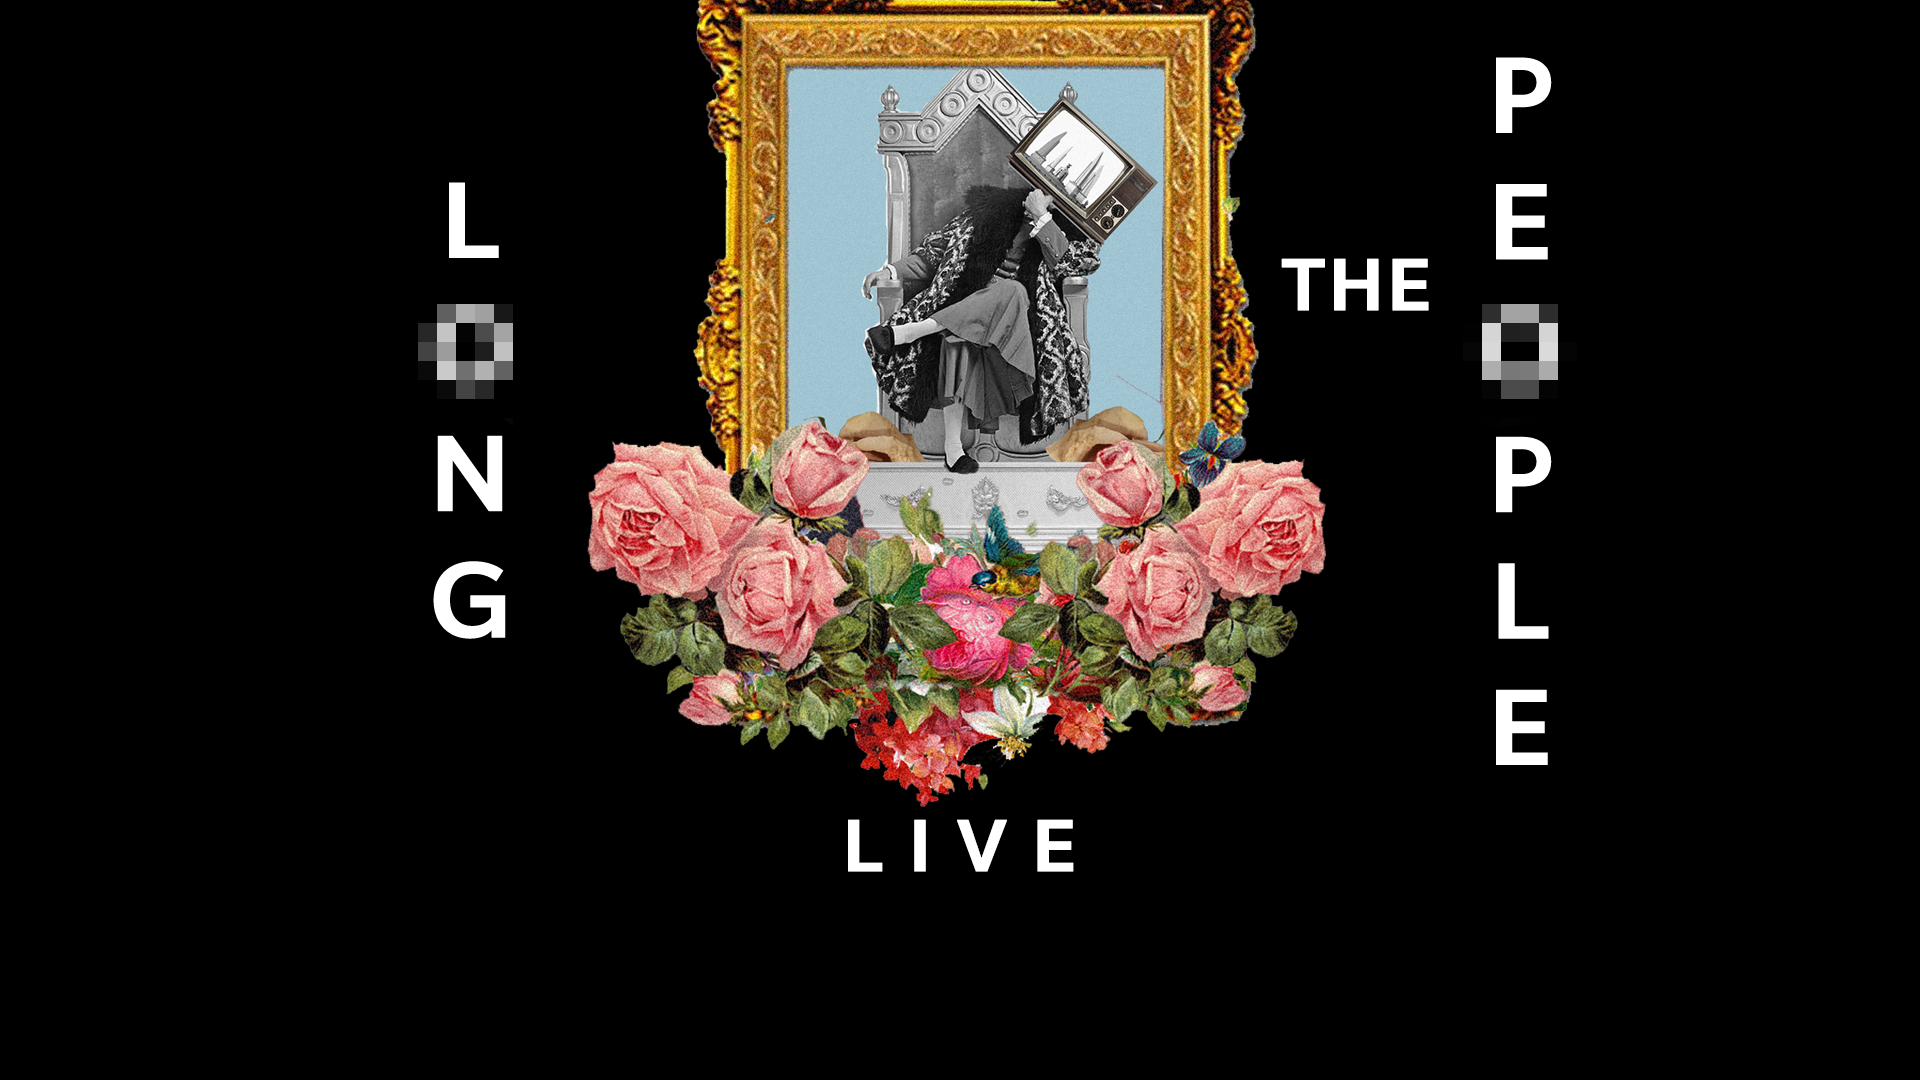
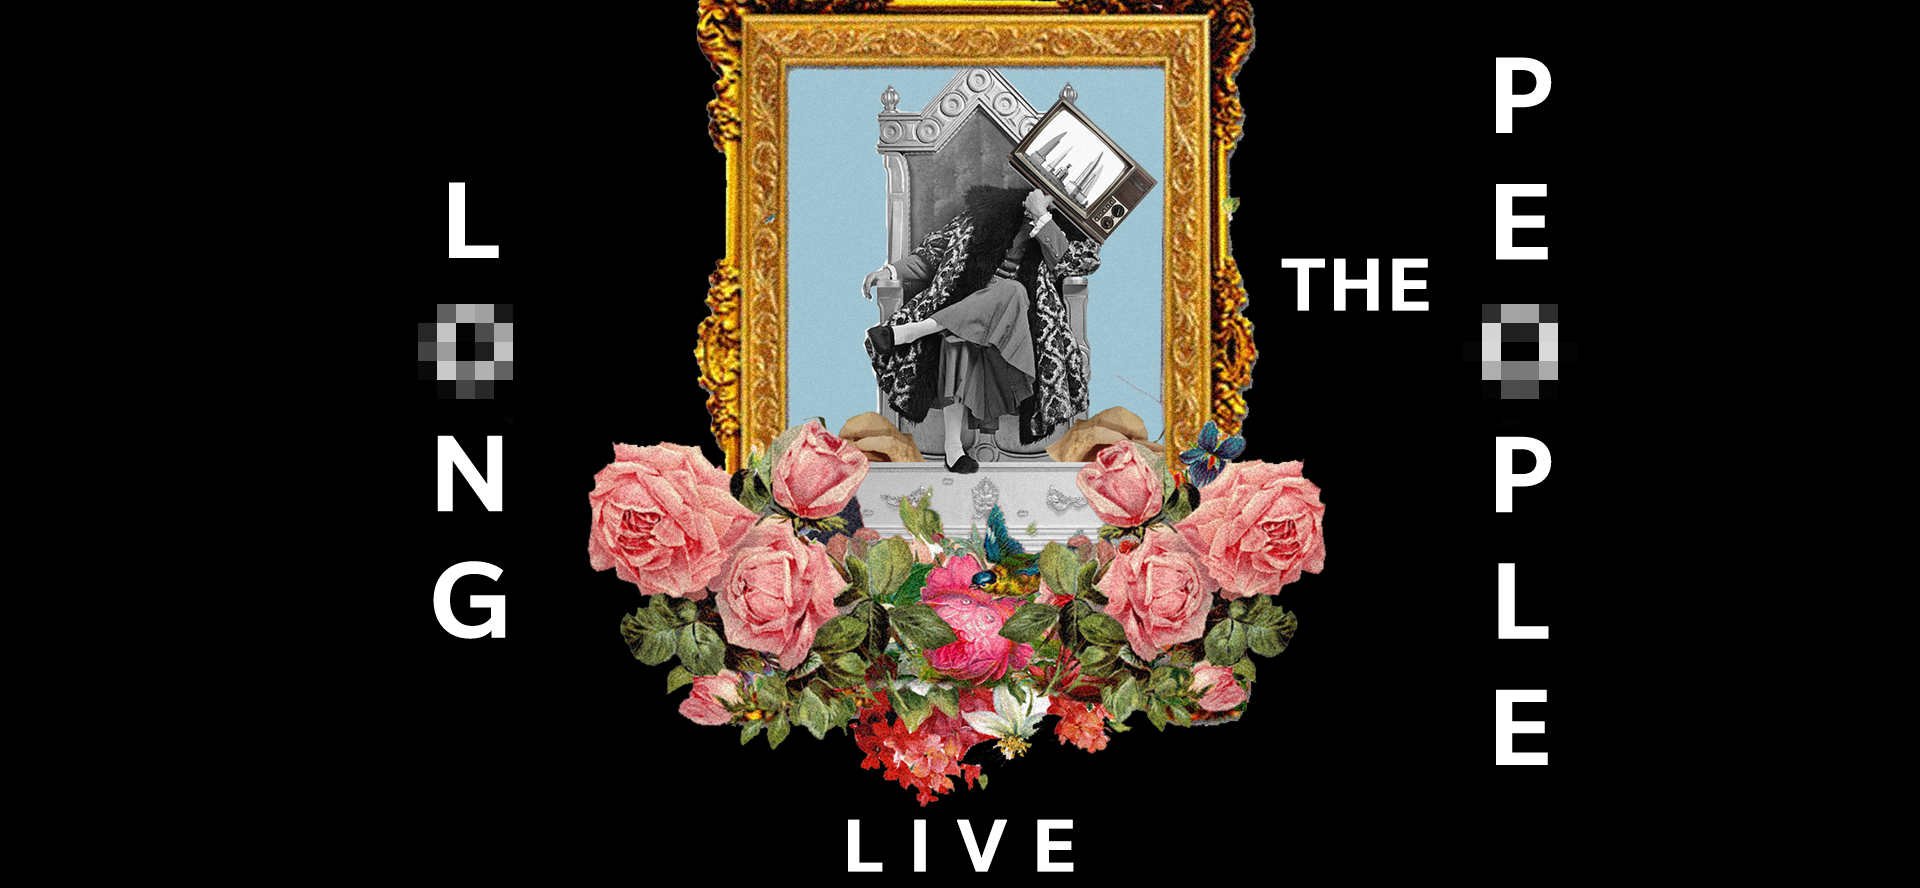
change /home background

diff --git a/public/assets/css/style.css b/public/assets/css/style.css
@@ -15,7 +15,7 @@ html ,body {
     align-items: center;
     display: flex;
     height: 100vh; 
-    background-image: url('../img/webpage.png');
+    background-image: url('../img/background.jpg');
     background-position: center;
     background-repeat: no-repeat;
     background-size: 100% 100%; 
@@ -150,12 +150,16 @@ p.fxxk-govern {
 }
 
 .mourning-btn-section {
-    top: 85%;
+    top: 80%;
 }    
 /* End /index style */
 
 /* Begin /home style */
 .body-home {
+    background-color: #000000;
+}
+
+.mournig-picture {
     background-color: #000000;
 }
 
@@ -166,6 +170,11 @@ p.fxxk-govern {
 
 .mourning-section {
     background-color: #FFFFFF;
+    width: 70%;
+    padding-top: 0% !important;
+    padding-bottom: 0% !important;
+    padding-right: 0% !important;
+    padding-left: 0% !important;
 }
 
 .mourning-display {
@@ -210,6 +219,7 @@ p.fxxk-govern {
 }
 
 textarea.form-control {
+    margin-top: 10px !important;
     resize: none;
     display: block;
     margin-left: auto;
@@ -278,52 +288,6 @@ div.justified {
     display: flex;
     justify-content: center;
 }
-
-/* table {
-    display: block;
-    height: 300px;
-    overflow-y: scroll;
-    font-family: inherit;
-    border-collapse: collapse;
-    border-radius: 10px;
-    width: 100%;
-}
-
-table td, table th {
-    padding: 7px;
-    width: 500px;
-    border-bottom: 1px solid #000000;
-}
-  
-table tr:nth-child(even){background-color: #f2f2f2;}
-  
-table tr:hover {background-color: #ddd;}
-
-table th {
-    padding-top: 10px;
-    padding-bottom: 10px;
-    text-align: center;
-    background-color: #8a0303;
-    color: white; 
-    position: sticky;
-    top: 0;
-}
-
-table th:first-child {
-    border-right: 1px solid #000000;
-}
-
-table th:last-child {
-    border-left: 1px solid #000000;
-}
-
-table tr td:first-child {
-    border-right: 1px solid #000000;
-}
-
-table tr td:last-child {
-    border-left: 1px solid #000000;
-} */
 
 table thead th:first-child {
     border-top-left-radius : 10px;
@@ -403,9 +367,9 @@ img {
     margin-bottom: 10px;
     margin-left: auto;
     margin-right: auto;
-    width: 300px;
-    height: 300px;
-    border-radius: 50%;
-    background-size: cover;
+    width: 100%;
+    height: 100%;
+    /* border-radius: 50%; */
+    background-size: contain;
 } 
 /* End /home style */

diff --git a/public/home.html b/public/home.html
@@ -17,16 +17,25 @@
 
 <body class="body-home">
 
-    <div class="container mourning-section my-4">
-        <!-- Mourning message emblem-->
+    <div class="container mourning-picture my-4">
         <div class="row">
             <div class="col">
-                <!-- <button class="btn btn-image"></button> -->
                 <picture>
-                    <img class="contain" src="/assets/img/chatroombg.png" alt="Government">
+                    <img class="contain" src="/assets/img/webpage.png" alt="Government">
                 </picture>
             </div>
         </div>
+    </div>
+
+    <div class="container mourning-section my-4">
+        <!-- Mourning message emblem
+        <div class="row">
+            <div class="col">
+                <picture>
+                    <img class="contain" src="/assets/img/webpage.png" alt="Government">
+                </picture>
+            </div>
+        </div> -->
         <!-- Mourning message send-->
         <div class="row">
             <div class="col justified">
